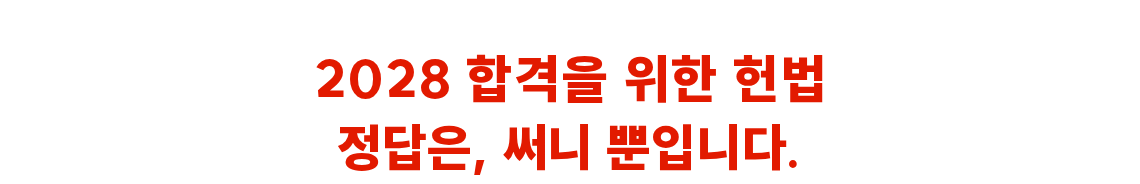
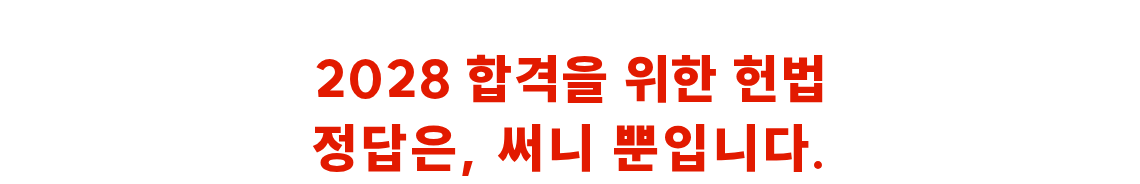
fix: 넘칠 때 자간·크기를 함부로 줄이지 않는다
사용자 제보: `합격`→`불합격`, `50`→`60` 으로 고쳤더니 낱말 사이가 사라지고
획이 얇아졌다. 7-8 의 순서 자체가 틀렸다.

원인 둘
1. 압축이 먼저였다. 순서가 자간 압축 → 폰트 축소 → 폭 확장 이라, 오른쪽에
   1221px 이 비어 있어도 먼저 자간을 조이고 폰트를 줄였다. 블록 상자는
   원문 잉크가 차지한 크기일 뿐 레이아웃 상자가 아니다
2. 압축량이 넘친 양과 무관했다. 1px 이 넘치든 100px 이 넘치든 자간을 폰트
   크기의 5% 씩 깎았다. `50`→`60` 은 2px(0.1%) 넘쳤는데 줄 전체로 83px
   좁아졌다 — 40배 과잉 반응

조치
- 순서를 폭 확장 → 자간 압축 → 폰트 축소 로 바꿨다. 들어갈 자리가 있으면
  아무것도 건드리지 않는다
- 압축을 기울기 역산으로 필요한 만큼만 한다. 상한은 그대로 폰트 크기의 5%
- usableWidth 신설. 정렬마다 쓸 수 있는 폭이 다르다 — 가운데 정렬은 좁은
  쪽이 한계다. 좌우 경계 거리를 그대로 쓰면 한쪽 이웃을 밟는다
- 원래 영역보다 2% 넘게 넓어지면 사용자에게 알린다

실측 (assets/sample-headline.png)
  합격→불합격   크기 64.6 그대로 · 자간 0.78 그대로 (예전엔 축소 + 압축)
  50만원→60만원 크기 78.9 그대로 · 자간 0.72 그대로
  4배 길이      크기 78.9 → 55.2 · 경고    ← 정말 길 때는 줄인다

이 결함이 안 잡힌 이유: 오버플로 경로에 검사가 하나도 없었다. 긴 문구를
넣어 보긴 했지만 결과가 나오는지만 봤고 크기·자간을 재지 않았다.
compose-probe 에 6항목을 넣었다.

Claude-Session: https://claude.ai/code/session_018kgwYgKVhZt5kDDopb9ULA

Changed region(s): [[0.2763, 0.6793, 0.7368, 0.9511]]

diff --git a/js/compose.js b/js/compose.js
@@ -168,45 +168,73 @@ const Compose = (() => {
   /* ---------- 7-8 오버플로 ---------- */
 
   /**
-   * 새 문구가 원래 폭을 넘칠 때 자간 압축 → 폰트 축소 → 폭 확장 → 경고 순으로
-   * 적용하고, 첫 단계에서 해결되면 멈춘다.
+   * 목표 폭에 정확히 맞는 자간. fitTracking 과 같은 기울기 역산인데 상한을 안 건다.
+   * 압축은 상한이 아니라 TRACK_STEP 으로 따로 제한한다.
    */
-  function resolveOverflow(ctx, font, text, size, track, box, room) {
-    const targetW = box.x1 - box.x0;
-    let w = widthAt(ctx, font, text, size, track);
-    if (w <= targetW) return {size, track, width: targetW, note: null};
+  function trackFor(ctx, font, text, size, targetW) {
+    setFont(ctx, font, size, 0);
+    const w0 = inkMetrics(ctx, text).w;
+    setFont(ctx, font, size, 10);
+    const k = (inkMetrics(ctx, text).w - w0) / 10;
+    return k ? (targetW - w0) / k : 0;
+  }
 
-    // 1단계 — 자간 추가 압축
-    const tightened = track - size * TRACK_STEP;
-    w = widthAt(ctx, font, text, size, tightened);
-    if (w <= targetW) return {size, track: tightened, width: targetW, note: null};
+  /**
+   * 새 문구가 넘칠 때의 처리 (v1.7 재작성).
+   *
+   * 예전 순서는 **자간 압축 → 폰트 축소 → 폭 확장** 이었다. 둘 다 틀렸다.
+   *
+   * 1. **압축이 먼저였다.** 블록 상자는 '원문 잉크가 차지한 크기'일 뿐 레이아웃
+   *    상자가 아니다. 옆이 비어 있으면 그냥 넘어가면 된다 — 디자이너가 손으로
+   *    고쳐도 그렇게 한다. 실측: `합격`→`불합격` 은 57px 넘쳤는데 오른쪽에
+   *    1221px 이 비어 있었다. 그런데도 자간을 조이고 폰트를 줄여, 낱말 사이가
+   *    사라지고 획이 얇아졌다.
+   * 2. **압축량이 넘친 양과 무관했다.** 1px 이 넘치든 100px 이 넘치든 자간을
+   *    폰트 크기의 5% 씩 깎았다. 실측: `50`→`60` 은 **2px(0.1%)** 넘쳤는데
+   *    자간이 글자마다 3.9px 씩, 줄 전체로 83px 좁아졌다.
+   *
+   * 지금은 넘어갈 자리가 있으면 아무것도 건드리지 않고, 좁혀야 할 때는 **필요한
+   * 만큼만** 좁힌다.
+   */
+  function resolveOverflow(ctx, font, text, size, track, box, avail) {
+    const targetW = box.x1 - box.x0;
+    // 상자보다 좁게 몰아넣지는 않는다. avail 이 상자보다 작게 나오면 무시한다.
+    const limit = Math.max(targetW, avail);
+    const w = widthAt(ctx, font, text, size, track);
+    const grew = (over) => over > targetW * 0.02
+      ? '문구가 길어져 원래 영역보다 넓어졌습니다' : null;
+
+    // 0단계 — 들어가면 그대로. 원본 굵기·자간을 지키는 것이 가장 원본에 가깝다.
+    if (w <= limit) return {size, track, width: w, note: grew(w - targetW)};
+
+    // 1단계 — 필요한 만큼만 자간 압축 (상한은 폰트 크기의 TRACK_STEP)
+    const floor = track - size * TRACK_STEP;
+    const need = trackFor(ctx, font, text, size, limit);
+    if (need >= floor) {
+      return {size, track: need, width: limit, note: grew(limit - targetW)};
+    }
 
     // 2단계 — 폰트 축소 (하한까지 이분 탐색)
     let lo = size * MIN_SCALE, hi = size, best = null;
     for (let i = 0; i < 12; i++) {
       const mid = (lo + hi) / 2;
-      const t = track * (mid / size) - mid * TRACK_STEP;
-      if (widthAt(ctx, font, text, mid, t) <= targetW) { best = {size: mid, track: t}; lo = mid; }
+      const t = Math.max(trackFor(ctx, font, text, mid, limit),
+                         track * (mid / size) - mid * TRACK_STEP);
+      if (widthAt(ctx, font, text, mid, t) <= limit) { best = {size: mid, track: t}; lo = mid; }
       else hi = mid;
     }
     if (best) {
-      const pct = Math.round(best.size / size * 100);
-      return {...best, width: targetW, note: `문구가 길어 ${pct}%로 축소했습니다`};
+      return {...best, width: limit,
+        note: `문구가 길어 글자를 ${Math.round(best.size / size * 100)}% 로 줄였습니다`};
     }
 
-    // 3단계 — 폭 확장 (인접 블록·캔버스 경계까지)
-    const shrunk = {size: size * MIN_SCALE, track: track * MIN_SCALE - size * MIN_SCALE * TRACK_STEP};
-    const need = widthAt(ctx, font, text, shrunk.size, shrunk.track);
-    if (need <= room) {
-      return {...shrunk, width: need,
-        note: `문구가 길어 ${Math.round(MIN_SCALE * 100)}%로 축소하고 폭을 넓혔습니다`};
-    }
-
-    // 4단계 — 경고 후 그대로
-    return {...shrunk, width: need, note: '문구가 너무 길어 영역을 벗어납니다'};
+    // 3단계 — 더는 못 줄인다. 그대로 두고 알린다.
+    const shrunk = {size: size * MIN_SCALE, track: floor * MIN_SCALE};
+    return {...shrunk, width: widthAt(ctx, font, text, shrunk.size, shrunk.track),
+            note: '문구가 너무 길어 옆 영역을 침범합니다'};
   }
 
-  /** 이 줄이 좌우로 얼마나 넓어질 수 있는지 — 다른 블록에 부딪히기 전까지. */
+  /** 이 줄의 좌우 경계 — 다른 블록에 부딪히기 전까지. */
   function roomFor(box, allBlocks, selfId, W) {
     let left = 0, right = W;
     for (const b of allBlocks) {
@@ -216,7 +244,22 @@ const Compose = (() => {
       if (o.x1 <= box.x0) left = Math.max(left, o.x1);
       else if (o.x0 >= box.x1) right = Math.min(right, o.x0);
     }
-    return right - left;
+    return {left, right};
+  }
+
+  /**
+   * 정렬 기준으로 실제 쓸 수 있는 폭.
+   *
+   * 왼쪽 정렬은 오른쪽으로만 자라고, 가운데 정렬은 양쪽으로 자란다 — 가운데는
+   * 좁은 쪽이 한계다. 이걸 구분하지 않고 좌우 경계 사이 거리를 그대로 쓰면
+   * 가운데 정렬 글자가 한쪽 이웃을 밟는다.
+   */
+  function usableWidth(box, align, bounds) {
+    const {left, right} = bounds;
+    if (align === 'left') return Math.max(0, right - box.x0);
+    if (align === 'right') return Math.max(0, box.x1 - left);
+    const cx = (box.x0 + box.x1) / 2;
+    return Math.max(0, 2 * Math.min(cx - left, right - cx));
   }
 
   /* ---------- 정렬 추정 (7-6, v1.5 재작성) ---------- */
@@ -354,8 +397,8 @@ const Compose = (() => {
         const size0 = blockSize;
         const track0 = fitTracking(ctx, font, src, size0, box.x1 - box.x0);
 
-        const room = roomFor(box, blocks, b.id, W);
-        const fit = resolveOverflow(ctx, font, text, size0, track0, box, room);
+        const avail = usableWidth(box, align, roomFor(box, blocks, b.id, W));
+        const fit = resolveOverflow(ctx, font, text, size0, track0, box, avail);
         if (fit.note) notes.push({id: b.id, level: 'warn', text: fit.note});
 
         drawLine(ctx, font, text, box, fit, align, b);
@@ -386,7 +429,7 @@ const Compose = (() => {
   // 다른 방식으로 글자를 놓으면 "판별할 때 닮았던 폰트"가 합성에서 달라진다.
   return {
     compose,
-    util: {setFont, inkMetrics, fitSize, fitTracking, guessAlign, alignOf, layout, inkX,
+    util: {setFont, inkMetrics, fitSize, fitTracking, guessAlign, alignOf, layout, inkX, roomFor, usableWidth, resolveOverflow,
            removalMask, ALPHA_T, INK_FAR, TRACK_MAX},
   };
 })();

diff --git a/tools/compose-probe.js b/tools/compose-probe.js
@@ -143,6 +143,78 @@ const CASES = [
   check('결과로 되돌아온다',
     await page.evaluate(() => window.__app.state.showing) === 'result');
 
+  // ---- 오버플로 (v1.7 재작성) ----
+  //
+  // 예전에는 넘치면 무조건 자간부터 5% 깎고 폰트를 줄였다. 옆이 비어 있어도
+  // 그랬고, 1px 이 넘쳐도 그랬다. 사용자가 `합격`→`불합격`, `50`→`60` 을
+  // 넣었을 때 낱말 사이가 사라지고 획이 얇아진 원인이다.
+  console.log('\n[넘칠 때의 처리]');
+  await page.goto(`http://127.0.0.1:${PORT}/index.html`);
+  await page.setInputFiles('#fileInput', path.join(ROOT, 'assets/sample-headline.png'));
+  await page.waitForFunction(() => window.__app.state.imageData && !window.__app.state.analyzing,
+    null, {timeout: 300000});
+
+  const ov = await page.evaluate(() => {
+    const st = window.__app.state;
+    const {layout, fitTracking, roomFor, usableWidth, resolveOverflow, setFont, inkMetrics} = Compose.util;
+    const c = document.createElement('canvas').getContext('2d', {willReadFrequently: true});
+    const run = (key, text) => {
+      const blk = st.blocks.find((x) => (x.originalText || '').includes(key));
+      if (!blk) return null;
+      const font = window.__app.fontFor(blk);
+      const L = layout(c, blk, font);
+      const box = L.boxes[0], targetW = box.x1 - box.x0;
+      const track = fitTracking(c, font, L.srcLines[0], L.size, targetW);
+      const avail = usableWidth(box, L.align, roomFor(box, st.blocks, blk.id, st.imageData.width));
+      setFont(c, font, L.size, track);
+      const w = inkMetrics(c, text).w;
+      const f = resolveOverflow(c, font, text, L.size, track, box, avail);
+      return {size: L.size, track, avail, targetW, over: w - targetW,
+              fitSize: f.size, fitTrack: f.track, note: f.note};
+    };
+    const src = (key) => (st.blocks.find((x) => (x.originalText || '').includes(key)).originalText);
+    return {
+      big:   run('초시때', src('초시때').replace('합격', '불합격')),
+      tiny:  run('공단기로', src('공단기로').replace('50만원', '60만원')),
+      // 옆이 막힐 만큼 아주 길게 — 이때는 좁히는 게 맞다
+      huge:  run('공단기로', src('공단기로').repeat(4)),
+    };
+  });
+
+  const same = (a, b) => Math.abs(a - b) < 1e-6;
+  console.log(`  6.5% 넘침  → 크기 ${ov.big.fitSize.toFixed(1)} (원래 ${ov.big.size.toFixed(1)})`
+    + ` · 자간 ${ov.big.fitTrack.toFixed(2)} (원래 ${ov.big.track.toFixed(2)}) · 여유 ${Math.round(ov.big.avail)}px`);
+  console.log(`  0.1% 넘침  → 크기 ${ov.tiny.fitSize.toFixed(1)} · 자간 ${ov.tiny.fitTrack.toFixed(2)}`);
+  console.log(`  4배 길이   → 크기 ${ov.huge.fitSize.toFixed(1)} · 자간 ${ov.huge.fitTrack.toFixed(2)} · ${ov.huge.note}`);
+
+  check('옆이 비어 있으면 크기를 안 줄인다',
+    same(ov.big.fitSize, ov.big.size) && same(ov.tiny.fitSize, ov.tiny.size),
+    `${ov.big.fitSize.toFixed(1)}/${ov.big.size.toFixed(1)}`);
+  check('옆이 비어 있으면 자간을 안 좁힌다',
+    same(ov.big.fitTrack, ov.big.track) && same(ov.tiny.fitTrack, ov.tiny.track),
+    `${ov.big.fitTrack.toFixed(2)}/${ov.big.track.toFixed(2)}`);
+  check('조금 넘친 것에 큰 압축을 걸지 않는다',
+    ov.tiny.over > 0 && ov.tiny.over < 5 && same(ov.tiny.fitTrack, ov.tiny.track),
+    `${ov.tiny.over.toFixed(1)}px 넘침`);
+  check('정말 길면 그때는 줄인다',
+    ov.huge.fitSize < ov.huge.size && !!ov.huge.note,
+    `${ov.huge.fitSize.toFixed(1)} < ${ov.huge.size.toFixed(1)}`);
+  check('넓어지면 사용자에게 알린다', /넓어졌습니다/.test(ov.big.note || ''), ov.big.note);
+
+  // 가운데 정렬은 좁은 쪽이 한계다. 좌우 경계 사이 거리를 그대로 쓰면 이웃을 밟는다.
+  const usable = await page.evaluate(() => {
+    const {usableWidth} = Compose.util;
+    const box = {x0: 100, y0: 0, x1: 200, y1: 10};
+    const bounds = {left: 50, right: 1000};
+    return {
+      left: usableWidth(box, 'left', bounds),
+      right: usableWidth(box, 'right', bounds),
+      center: usableWidth(box, 'center', bounds),
+    };
+  });
+  check('가운데 정렬은 좁은 쪽 기준으로 잰다', usable.center === 200,
+    `왼쪽 ${usable.left} · 오른쪽 ${usable.right} · 가운데 ${usable.center}`);
+
   await page.screenshot({path: path.join(OUT, 'compose-result-view.png'), fullPage: true});
 
   console.log(`\n통과 ${pass} · 실패 ${fail}${errors.length ? `\n콘솔 오류: ${errors.join(' | ')}` : ''}`);

diff --git a/PLAN.md b/PLAN.md
@@ -1071,6 +1071,18 @@ image-text-swap/
 
 ## 부록 A. 변경 이력
 
+### v1.6 → v1.7 (넘칠 때의 처리 재작성)
+
+`합격`→`불합격`, `50`→`60` 을 넣었더니 낱말 사이가 사라지고 획이 얇아졌다.
+7-8 의 순서 자체가 틀렸다.
+
+| # | 항목 | 변경 내용 | 근거 |
+|---|------|-----------|------|
+| 1 | **7-8 순서** | 자간 압축 → 폰트 축소 → 폭 확장 **→** 폭 확장 → 자간 압축 → 폰트 축소 | 블록 상자는 원문 잉크의 크기일 뿐 레이아웃 상자가 아니다. 옆이 1221px 비었는데도 압축했다 |
+| 2 | **7-8 압축량** | 고정 5% → **필요한 만큼만** (기울기 역산) | 2px(0.1%) 넘쳤는데 줄 전체를 83px 좁혔다 |
+| 3 | 7-8 `usableWidth` 신설 | 정렬별로 쓸 수 있는 폭을 다르게 잰다 | 가운데 정렬은 좁은 쪽이 한계다. 안 나누면 한쪽 이웃을 밟는다 |
+| 4 | 7-8 | 원래 영역보다 넓어지면 알린다 (2% 초과 시) | 조용히 넓어지면 사용자가 모른다 |
+
 ### v1.5 → v1.6 (고해상도 검출 · 말 고치기)
 
 2280px 헤드라인을 시험하다 검출이 무너졌다. 상수가 픽셀 고정이었던 것이
@@ -2083,3 +2095,79 @@ v0.7 의 판단이 그대로 맞았다.
 
 샘플 B 20블록 실측: 안전 12 · 위험 4 · 문구 확인 2 · 글꼴 다름 2 · 편집 불가 2.
 **`위험` 4블록은 전부 OCR 이 글자를 잘못 읽은 블록이다.**
+
+---
+
+## 부록 M. 넘칠 때의 처리 — 재작성 (v1.7)
+
+사용자 제보: `합격`→`불합격`, `50`→`60` 으로 고쳤더니 **글자 굵기가 얇아지고
+자간이 줄었다.**
+
+### 원인 둘, 둘 다 7-8 의 설계 문제
+
+실측:
+
+| 편집 | 상자 폭 | 새 문구 폭 | 넘침 | 옆 여유 |
+|------|--------|-----------|------|---------|
+| `합격` → `불합격` | 868px | 924.8px | **56.8px (6.5%)** | 1221px |
+| `50만원` → `60만원` | 1422px | 1424px | **2px (0.1%)** | 2276px |
+
+**(1) 압축이 먼저였다.** 순서가 `자간 압축 → 폰트 축소 → 폭 확장` 이라, 오른쪽에
+1221px 이 비어 있어도 먼저 자간을 조이고 폰트를 줄였다. 자간 압축(−3.23px/글자
+× 16글자 ≈ −52px)으로도 모자라 폰트 축소까지 갔다. **낱말 사이가 사라지고 획이
+얇아진 것이 이 두 단계의 결과다.**
+
+블록 상자는 **원문 잉크가 차지한 크기**일 뿐 레이아웃 상자가 아니다. 옆이 비어
+있으면 그냥 넘어가면 된다 — 디자이너가 손으로 고쳐도 그렇게 한다.
+
+**(2) 압축량이 넘친 양과 무관했다.** 1px 이 넘치든 100px 이 넘치든 자간을 폰트
+크기의 5%씩 깎았다. `50`→`60` 은 **2px** 넘쳤는데 글자마다 3.94px, 줄 전체로 83px
+좁아졌다. 40배 과잉 반응이다.
+
+### 새 순서
+
+```
+0. 들어가면 그대로            ← 옆 여유까지 포함해서 잰다
+1. 필요한 만큼만 자간 압축     ← 고정 5% 가 아니라 기울기 역산
+2. 폰트 축소 (하한 70%)
+3. 그대로 두고 알린다
+```
+
+`usableWidth` 를 새로 뒀다. 정렬마다 쓸 수 있는 폭이 다르다:
+
+| 정렬 | 쓸 수 있는 폭 |
+|------|--------------|
+| 왼쪽 | `right − box.x0` |
+| 오른쪽 | `box.x1 − left` |
+| 가운데 | `2 × min(cx − left, right − cx)` — **좁은 쪽이 한계다** |
+
+좌우 경계 사이 거리를 그대로 쓰면 가운데 정렬 글자가 한쪽 이웃을 밟는다.
+
+### 고친 뒤
+
+| 편집 | 크기 | 자간 | 조치 |
+|------|------|------|------|
+| `합격` → `불합격` | 64.6px → **64.6px** | 0.78 → **0.78** | 넓어졌다고 알림 |
+| `50만원` → `60만원` | 78.9px → **78.9px** | 0.72 → **0.72** | 없음 |
+| 같은 문구 4배 길이 | 78.9px → 55.2px | 0.72 → −2.26 | 옆 영역 침범 경고 |
+
+**짧게 늘어난 것은 안 건드리고, 정말 긴 것만 줄인다.**
+
+### 검증 — compose-probe 6항목 신설
+
+| 항목 | 결과 |
+|------|------|
+| 옆이 비어 있으면 크기를 안 줄인다 | OK |
+| 옆이 비어 있으면 자간을 안 좁힌다 | OK |
+| 조금 넘친 것에 큰 압축을 걸지 않는다 | OK — 2.0px 넘침에 압축 0 |
+| 정말 길면 그때는 줄인다 | OK — 78.9 → 55.2 |
+| 넓어지면 사용자에게 알린다 | OK |
+| 가운데 정렬은 좁은 쪽 기준으로 잰다 | OK — 왼쪽 900 / 오른쪽 150 / 가운데 200 |
+
+### 이 결함이 왜 안 잡혔나
+
+**오버플로 경로에 검사가 하나도 없었다.** compose-probe 는 "긴 문구"를 넣어
+보긴 했지만 *결과 이미지가 나오는지*만 봤고, 크기·자간이 얼마나 바뀌는지는
+재지 않았다. 눈으로 봐도 "길어서 줄었나 보다" 로 넘어갈 만한 결과였다.
+
+숫자를 안 재면 "그럴듯한 잘못"은 안 잡힌다. 이번에 그 6항목을 넣었다.
